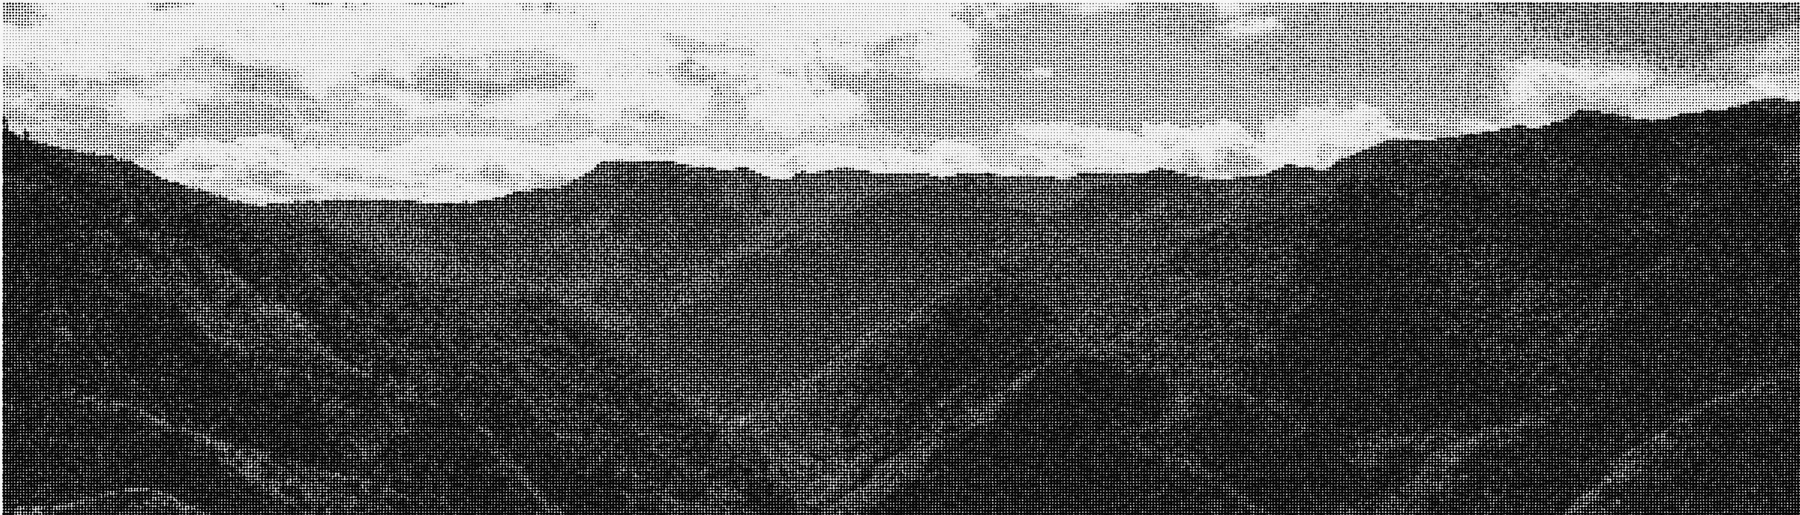
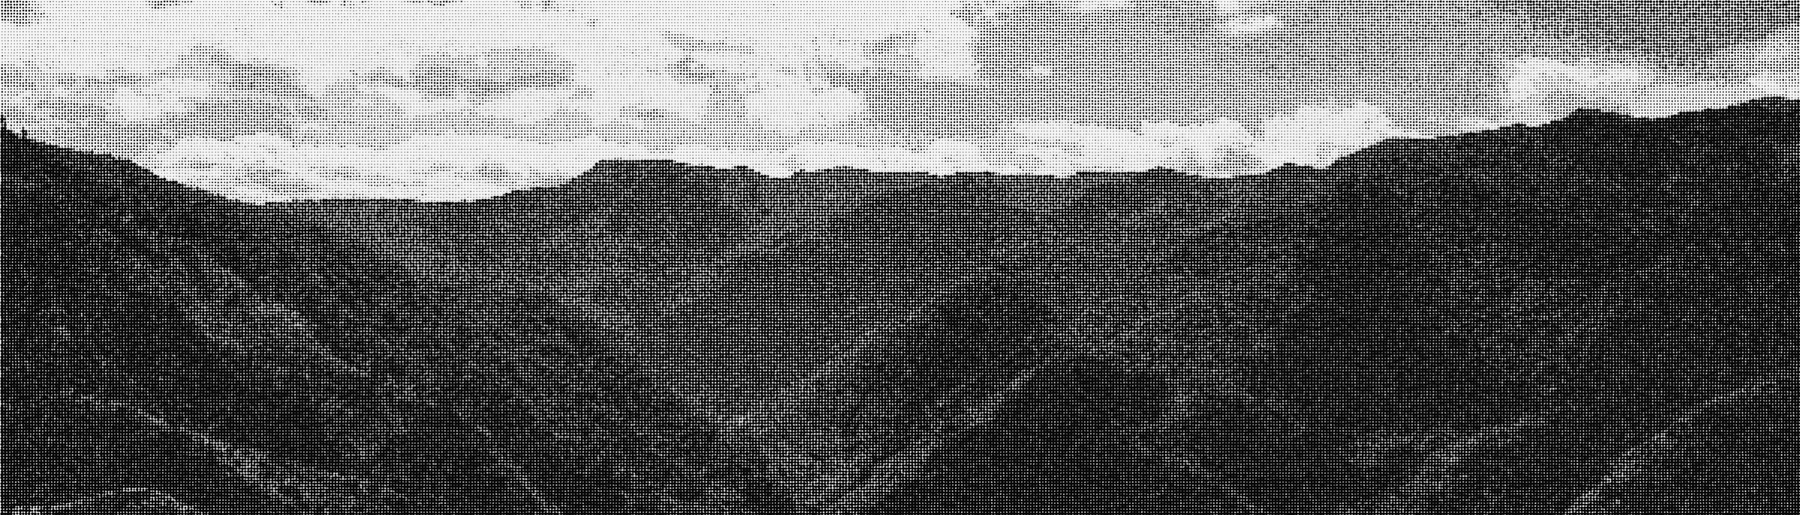
fix: remove shader edge artifact

diff --git a/scripts/preprocess_shader.py b/scripts/preprocess_shader.py
@@ -128,6 +128,15 @@ def render(
         result = Image.blend(grayscale, result, settings["halftone"])
 
     result = result.resize((width, height), Image.Resampling.LANCZOS)
+
+    # The grid origin can leave a narrow paper-only strip on the top and left
+    # edges after downsampling. Crop that rasterization artifact and restore
+    # the requested dimensions without changing the image's visible framing.
+    edge_trim = min(max(1, math.ceil(float(settings["cell"]) / 2)), width - 1, height - 1)
+    result = result.crop((edge_trim, edge_trim, width, height)).resize(
+        (width, height), Image.Resampling.LANCZOS
+    )
+
     if settings["grain"] > 0:
         rng = random.Random(20260905)
         grain_size = (max(1, width // 4), max(1, height // 4))
